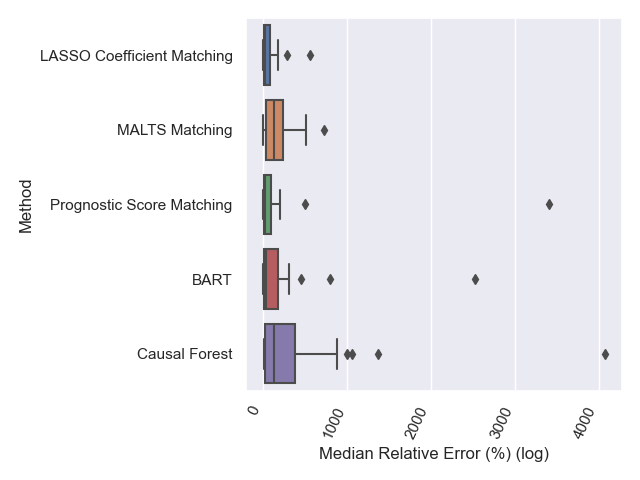
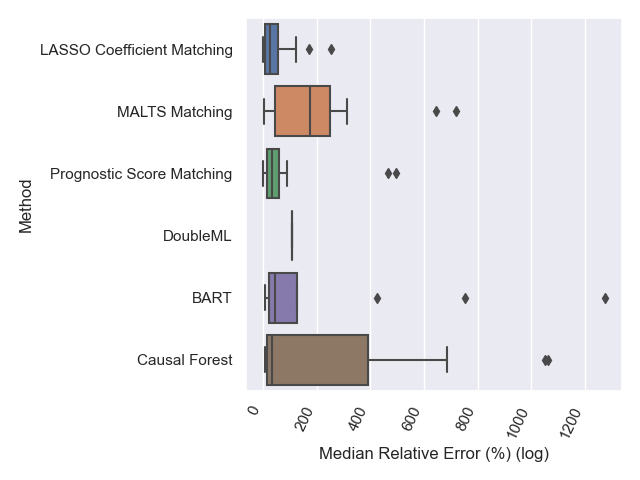
altered DML to not use second order terms

diff --git a/other_methods/doubleml.py b/other_methods/doubleml.py
@@ -1,4 +1,4 @@
-from econml.dml import SparseLinearDML
+from econml.dml import LinearDML
 import numpy as np
 import pandas as pd
 from sklearn.model_selection import StratifiedKFold
@@ -17,7 +17,7 @@ def doubleml(outcome, treatment, data, n_splits=2, gen_skf=None):
         Y = np.array(df_train.loc[:, outcome])
         T = np.array(df_train.loc[:, treatment])
         X_est = np.array(df_est.loc[:, covariates])
-        est = SparseLinearDML(discrete_treatment=True)
+        est = LinearDML(discrete_treatment=True, featurizer=None, linear_first_stages=False)
         est.fit(Y=Y, T=T, X=X)
         this_te_est = est.effect(X=X_est)
         this_index = df_est.index

diff --git a/Experiments/acic_error_and_runtime/plotting/errors.py b/Experiments/acic_error_and_runtime/plotting/errors.py
@@ -8,7 +8,7 @@ import seaborn as sns
 all_folders = glob(f"{os.getenv('RESULTS_FOLDER')}/*/", recursive=True)
 
 q = 0.5
-methods = ['LASSO Coefficient Matching', 'MALTS Matching', 'Prognostic Score Matching', 'BART', 'Causal Forest']
+methods = ['LASSO Coefficient Matching', 'MALTS Matching', 'Prognostic Score Matching', 'DoubleML', 'BART', 'Causal Forest']
 all_errors = pd.DataFrame([], index=methods)
 failed_files = []
 name_to_label = {}
